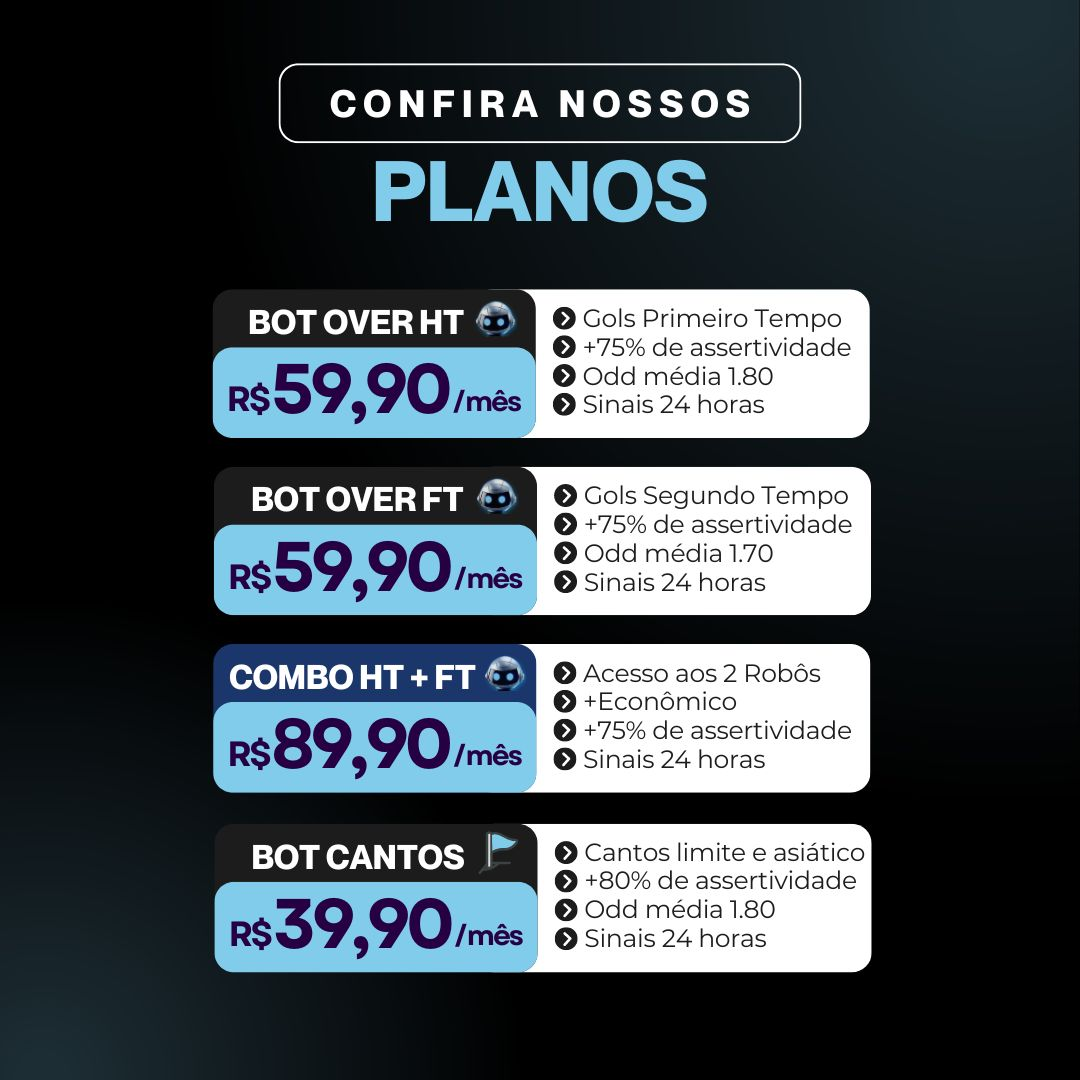
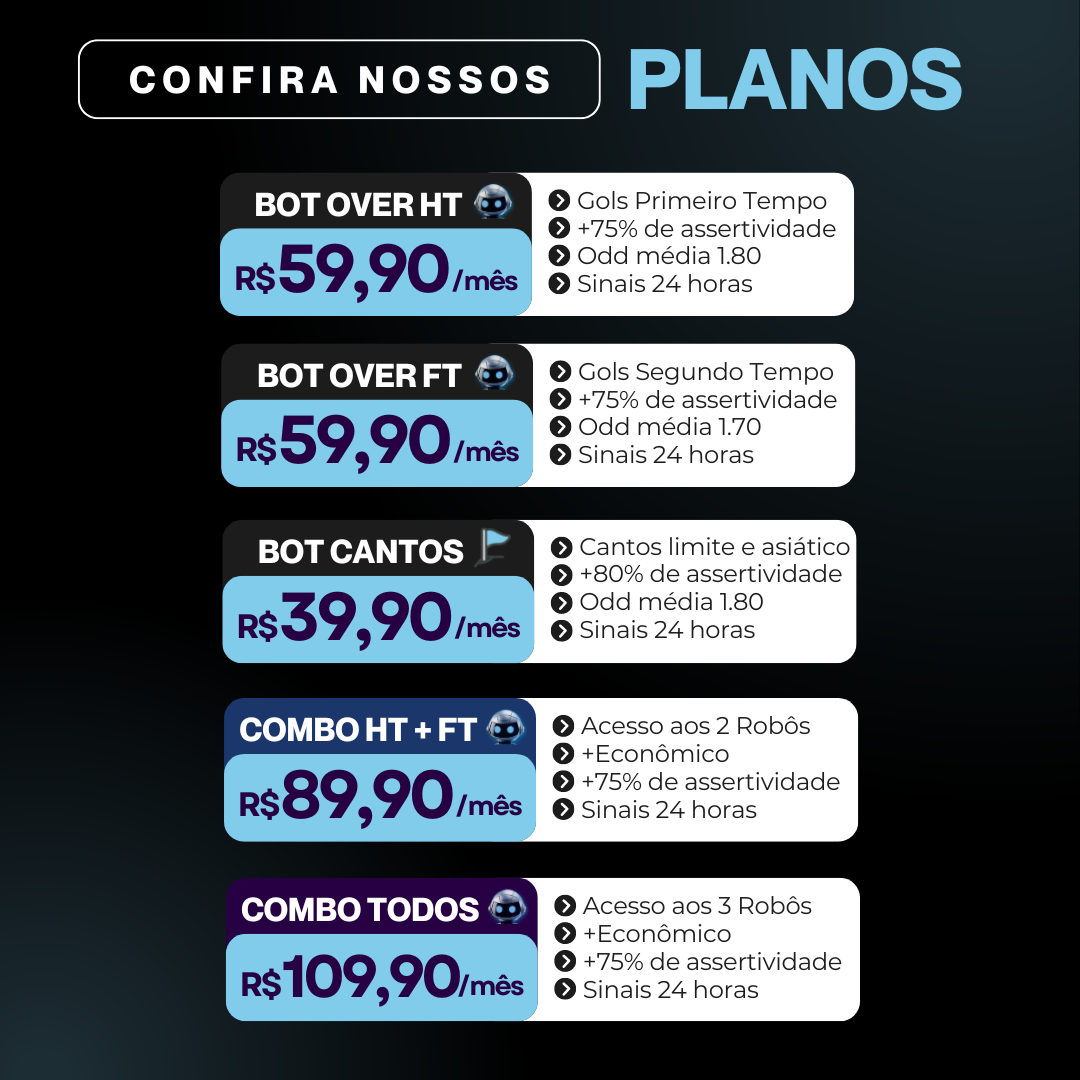
att

diff --git a/bot-suporte/bot-suporte.js b/bot-suporte/bot-suporte.js
@@ -60,8 +60,9 @@ bot.on('callback_query', (query) => {
                 inline_keyboard: [
                     [{ text: 'BOT HT ⚽', callback_data: 'bot-ht-planos' }],
                     [{ text: 'BOT FT ⚽', callback_data: 'bot-ft-planos' }],
-                    [{ text: 'COMBO (BOT FT + HT) 🤖', callback_data: 'combo-planos' }],
                     [{ text: 'BOT CANTOS ⛳', callback_data: 'bot-cantos-planos' }],
+                    [{ text: 'COMBO (BOT FT + HT) 🤖', callback_data: 'combo-planos' }],
+                    [{ text: 'COMBO TODOS BOTS 🤖', callback_data: 'combo-todos' }],
                     [{ text: '👈 Voltar', callback_data: 'start_message' }]
                 ]
             }
@@ -135,7 +136,22 @@ bot.on('callback_query', (query) => {
         }).catch(error => {
             console.error('Erro ao enviar a nova mensagem:', error);
         });
-    } 
+    } else if (query.data === 'combo-todos') {
+        bot.sendPhoto(chatId, 'plano-todos.png', {
+            caption: "Clicar no link para consultar outros tipos de planos.", // Manter a legenda original
+            reply_markup: {
+                inline_keyboard: [
+                    [{ text: 'ADQUIRIR AGORA ✅', url: 'https://hub.la/r/WrTndhTBnleylvXLm4y2'}],
+                    [{ text: '👈 Voltar', callback_data: 'planos' }]
+                ]
+            }
+        }).then(sentMessage => {
+            // Excluir a mensagem original para evitar duplicatas
+            bot.deleteMessage(chatId, messageId);
+        }).catch(error => {
+            console.error('Erro ao enviar a nova mensagem:', error);
+        });
+    }
 });
 
 // Restante do seu código...
